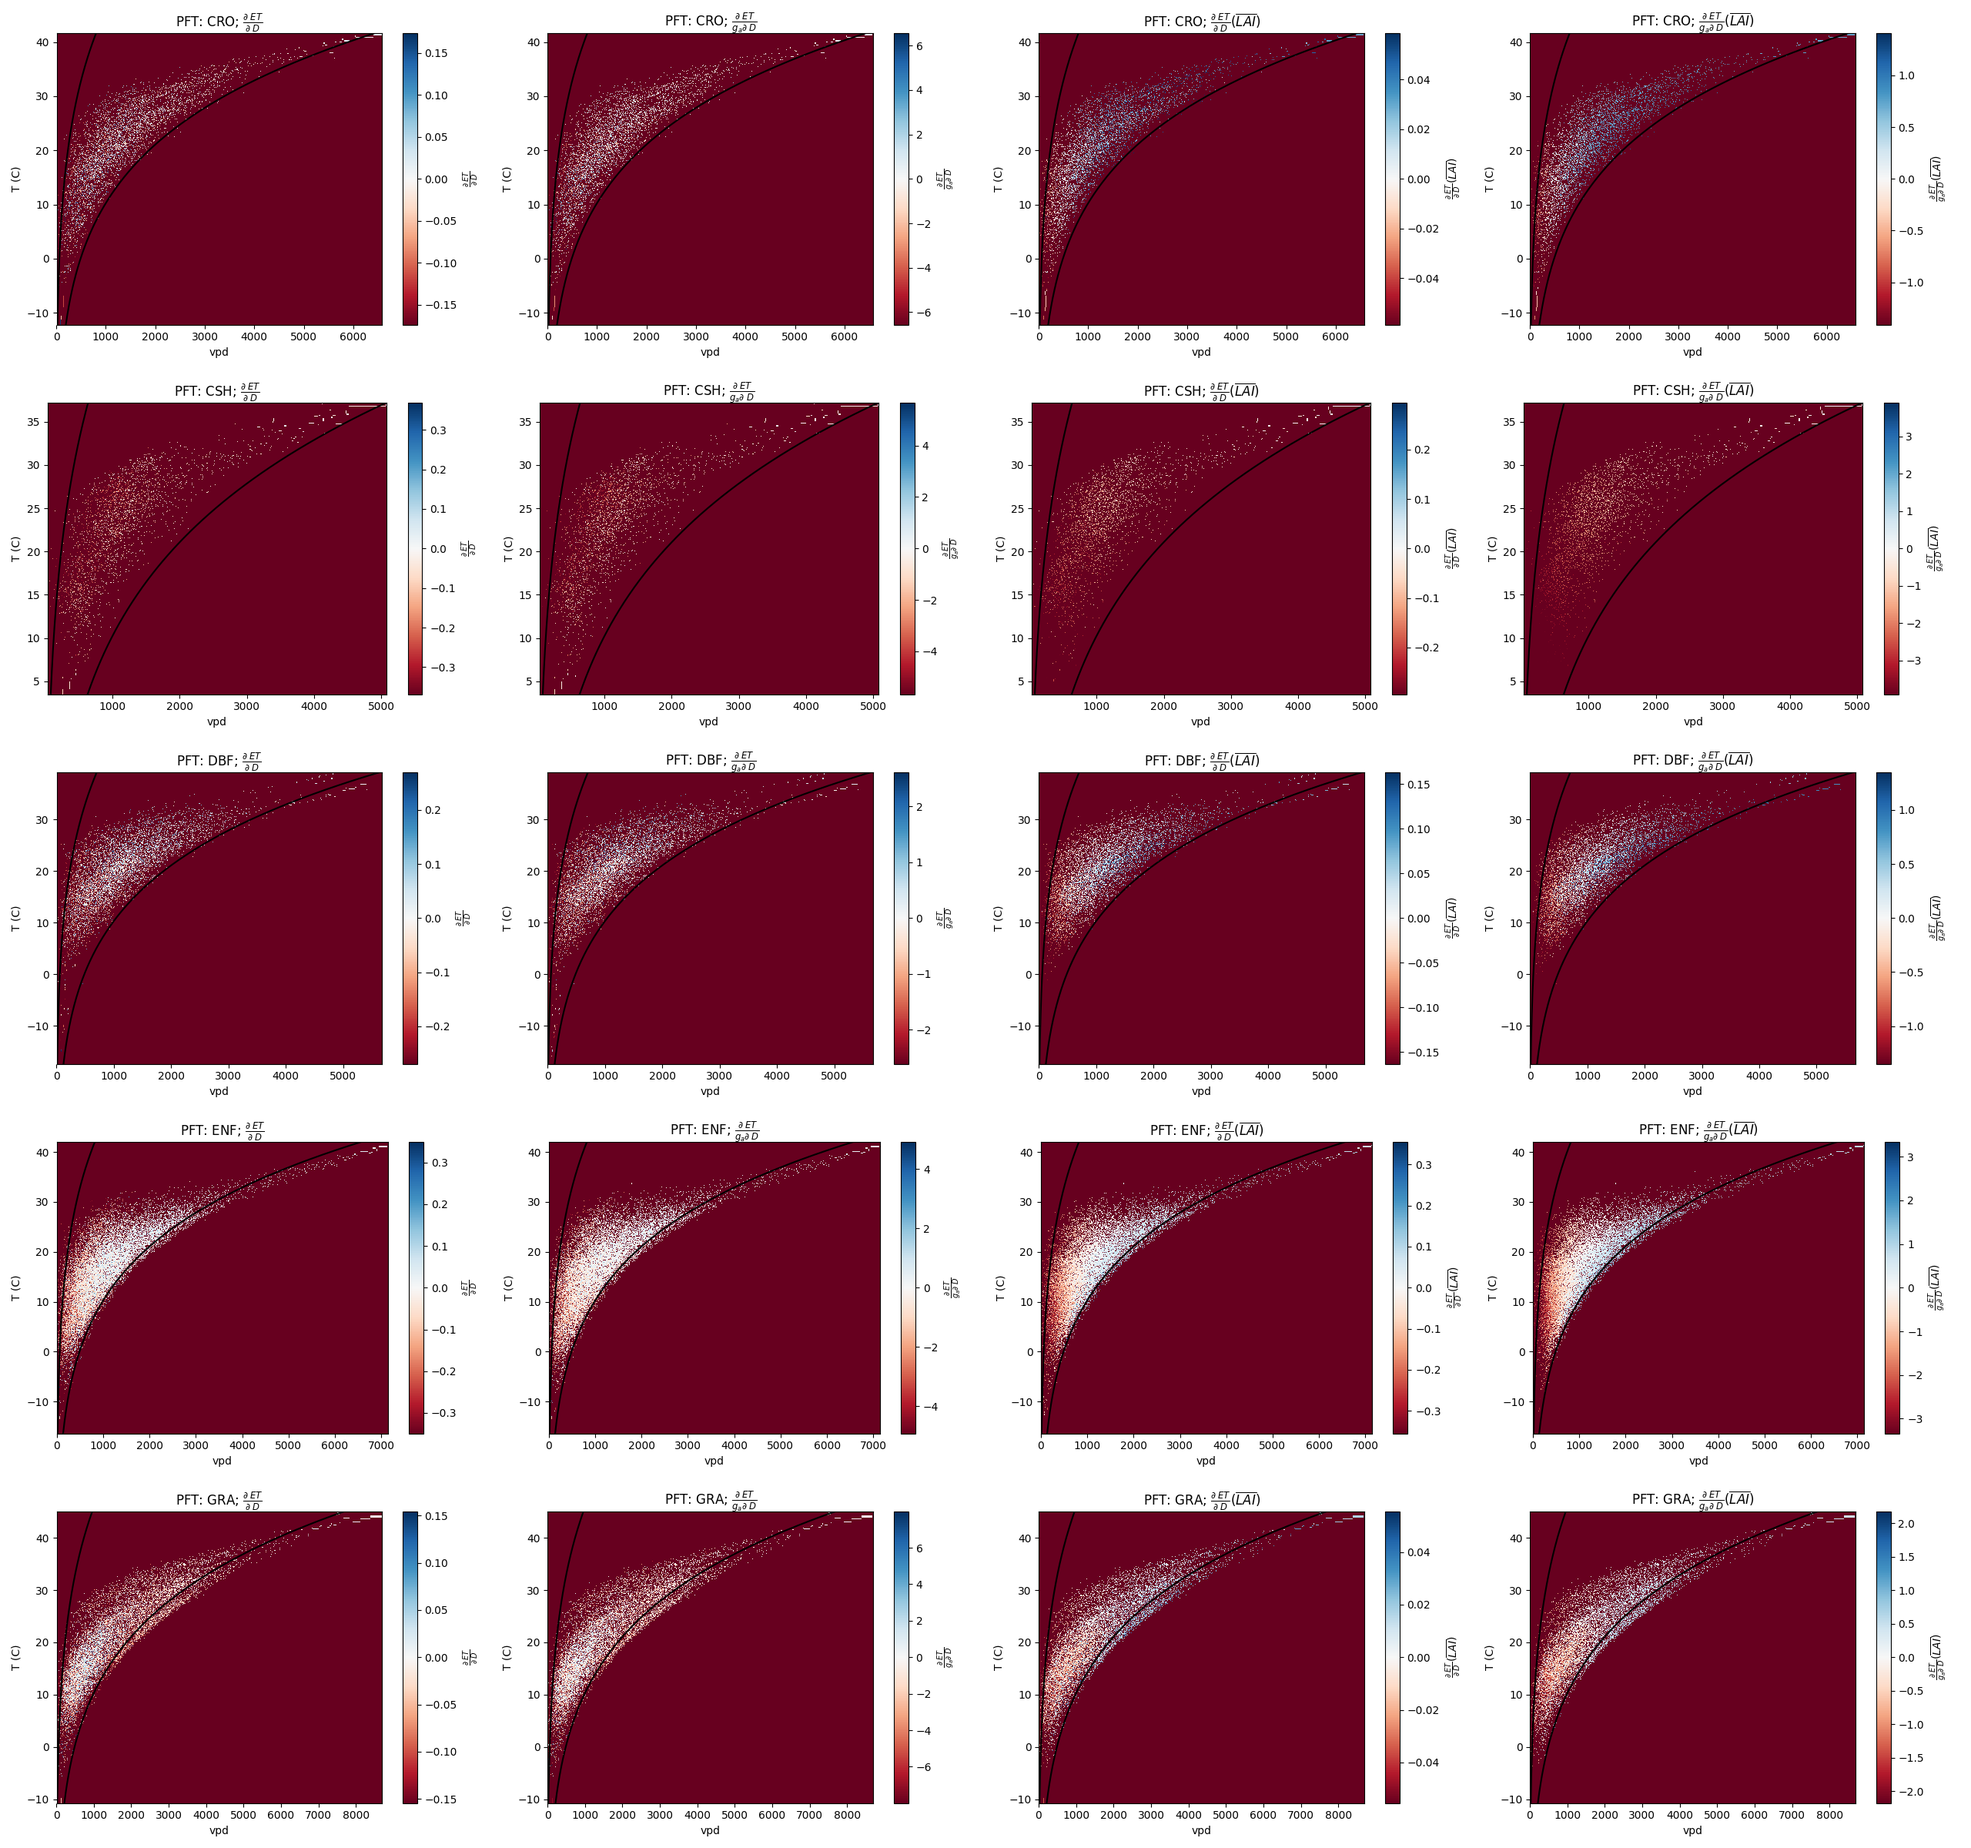
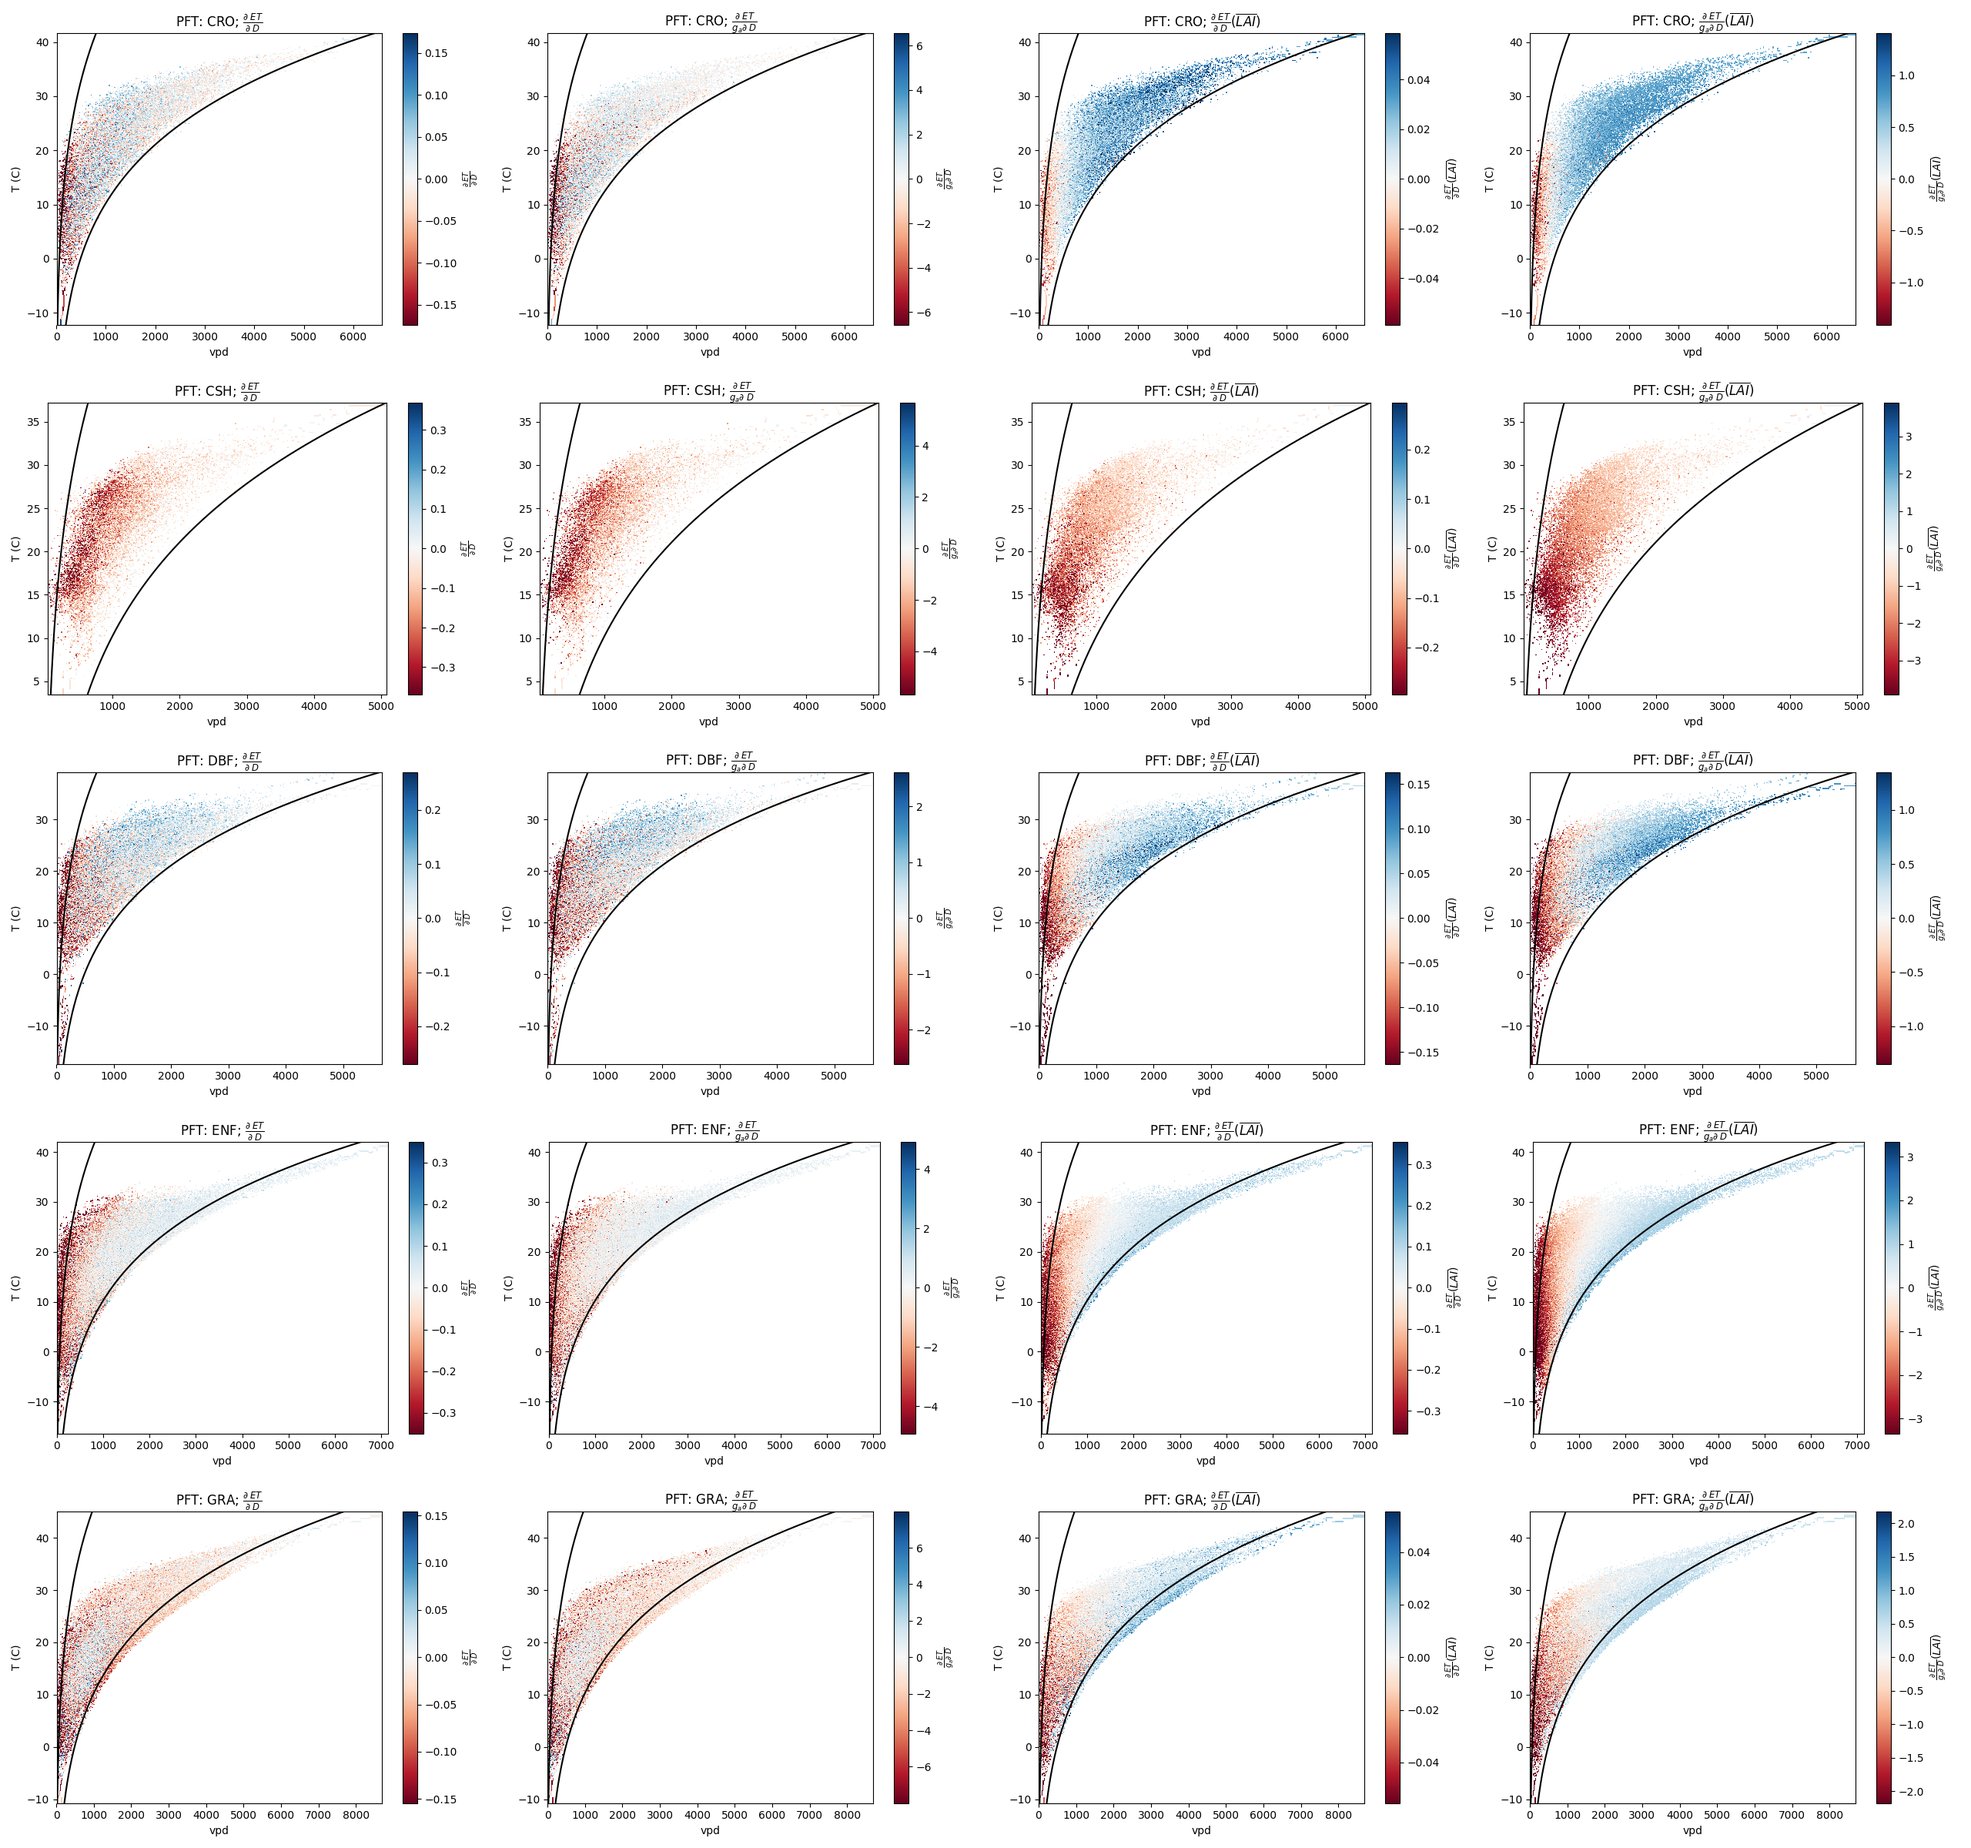
testign sampling

diff --git a/src/paper_figure_code/fig06.py b/src/paper_figure_code/fig06.py
@@ -41,7 +41,8 @@ def meshgrid_apply(_df, column='var', sample=False):
   """calculates a mean on column if size > 1"""
   #if _df.size > 1:
   if sample:
-    return _df.loc[:, column].sample(n=1)
+    # print('sampled!')
+    return float(_df.loc[:, column].sample(n=1))
   else:
     return _df.loc[:, column].mean(axis=0)
 
@@ -60,7 +61,12 @@ def make_ax_plot(_ax, var, _df, meta):
   _df['var'] = var
   _df = _df.assign(x_cut=pd.cut(_df[meta['x_axis']], 1000),\
                    t_a_cut=pd.cut(_df['t_a'], 1000))
-  grouped = _df.groupby(['x_cut', 't_a_cut']).apply(meshgrid_apply)
+  if meta['sample'] == 'sampled':
+    grouped = _df.groupby(['x_cut', 't_a_cut']).apply(meshgrid_apply,\
+                                                      sample=True)
+    print(grouped)
+  else:
+    grouped = _df.groupby(['x_cut', 't_a_cut']).apply(meshgrid_apply)
   grouped = grouped.reset_index()
   grouped.columns = ['x_cut', 't_a_cut', 'var']
   grouped = grouped.pivot('x_cut', 't_a_cut').transpose()
@@ -90,7 +96,7 @@ def make_ax_plot(_ax, var, _df, meta):
   color = _ax.pcolormesh(_x, _y, z, cmap=meta['cmap'],\
                          vmin=vmin, vmax=vmax)
   t, rh = rh_d_et_min(_df)
-  # _ax.plot(rh, t, 'k-')
+  # _ax.plot(rh, t, 'k-')n
   if (meta['x_axis'] == 'vpd'):
     t_a = np.linspace(_df['t_a'].min(),_df['t_a'].max(), 200.)
     test = met.vapor_pres(t_a)*100.*(1. - 0.90)
@@ -181,15 +187,17 @@ plt.close('all')
 meta = {}
 meta['nplots'] = 4 # 5 4
 meta['x_axis'] = 'rh'
+meta['sample'] = 'sampled'
+# meta['sample'] = ''
 df.groupby('pft').apply(scatter_plot_paper, meta)
 os.system('convert -append %s/climate_et/paper_plots/scatter/*_%s.png '\
-          '../../doc/paper/fig06b.png'\
-          % (os.environ['PLOTS'], meta['x_axis']))
+          '../../doc/paper/fig06b%s.png'\
+          % (os.environ['PLOTS'], meta['x_axis'], meta['sample']))
 
 
 meta['x_axis'] = 'vpd'
 df.groupby('pft').apply(scatter_plot_paper, meta)
 os.system('convert -append %s/climate_et/paper_plots/scatter/*%s.png '\
           '../../doc/paper/fig06.png'\
-          % (os.environ['PLOTS'], meta['x_axis']))
+          % (os.environ['PLOTS'], meta['x_axis'], meta['sample']))
 
